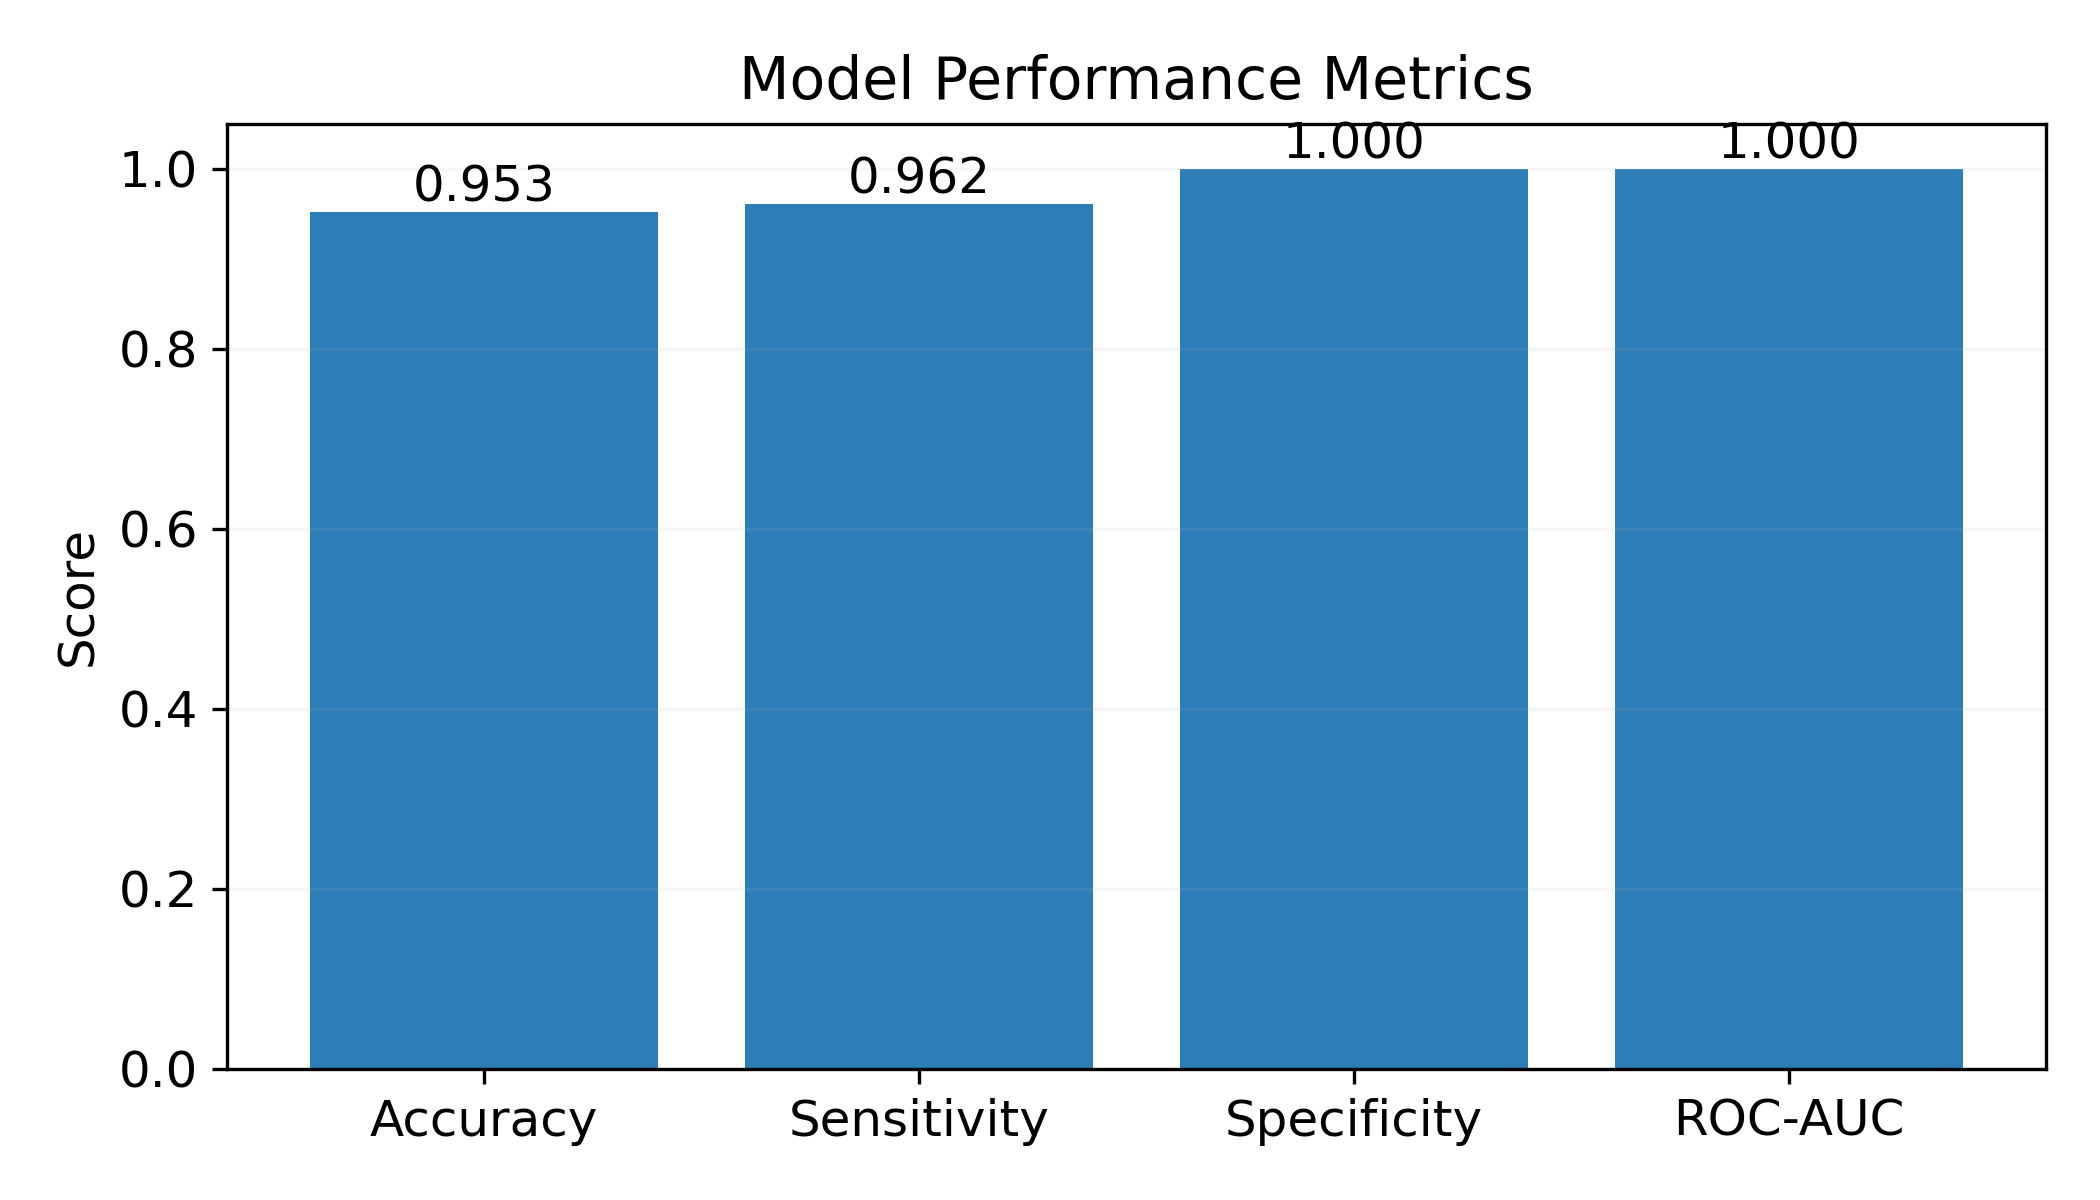
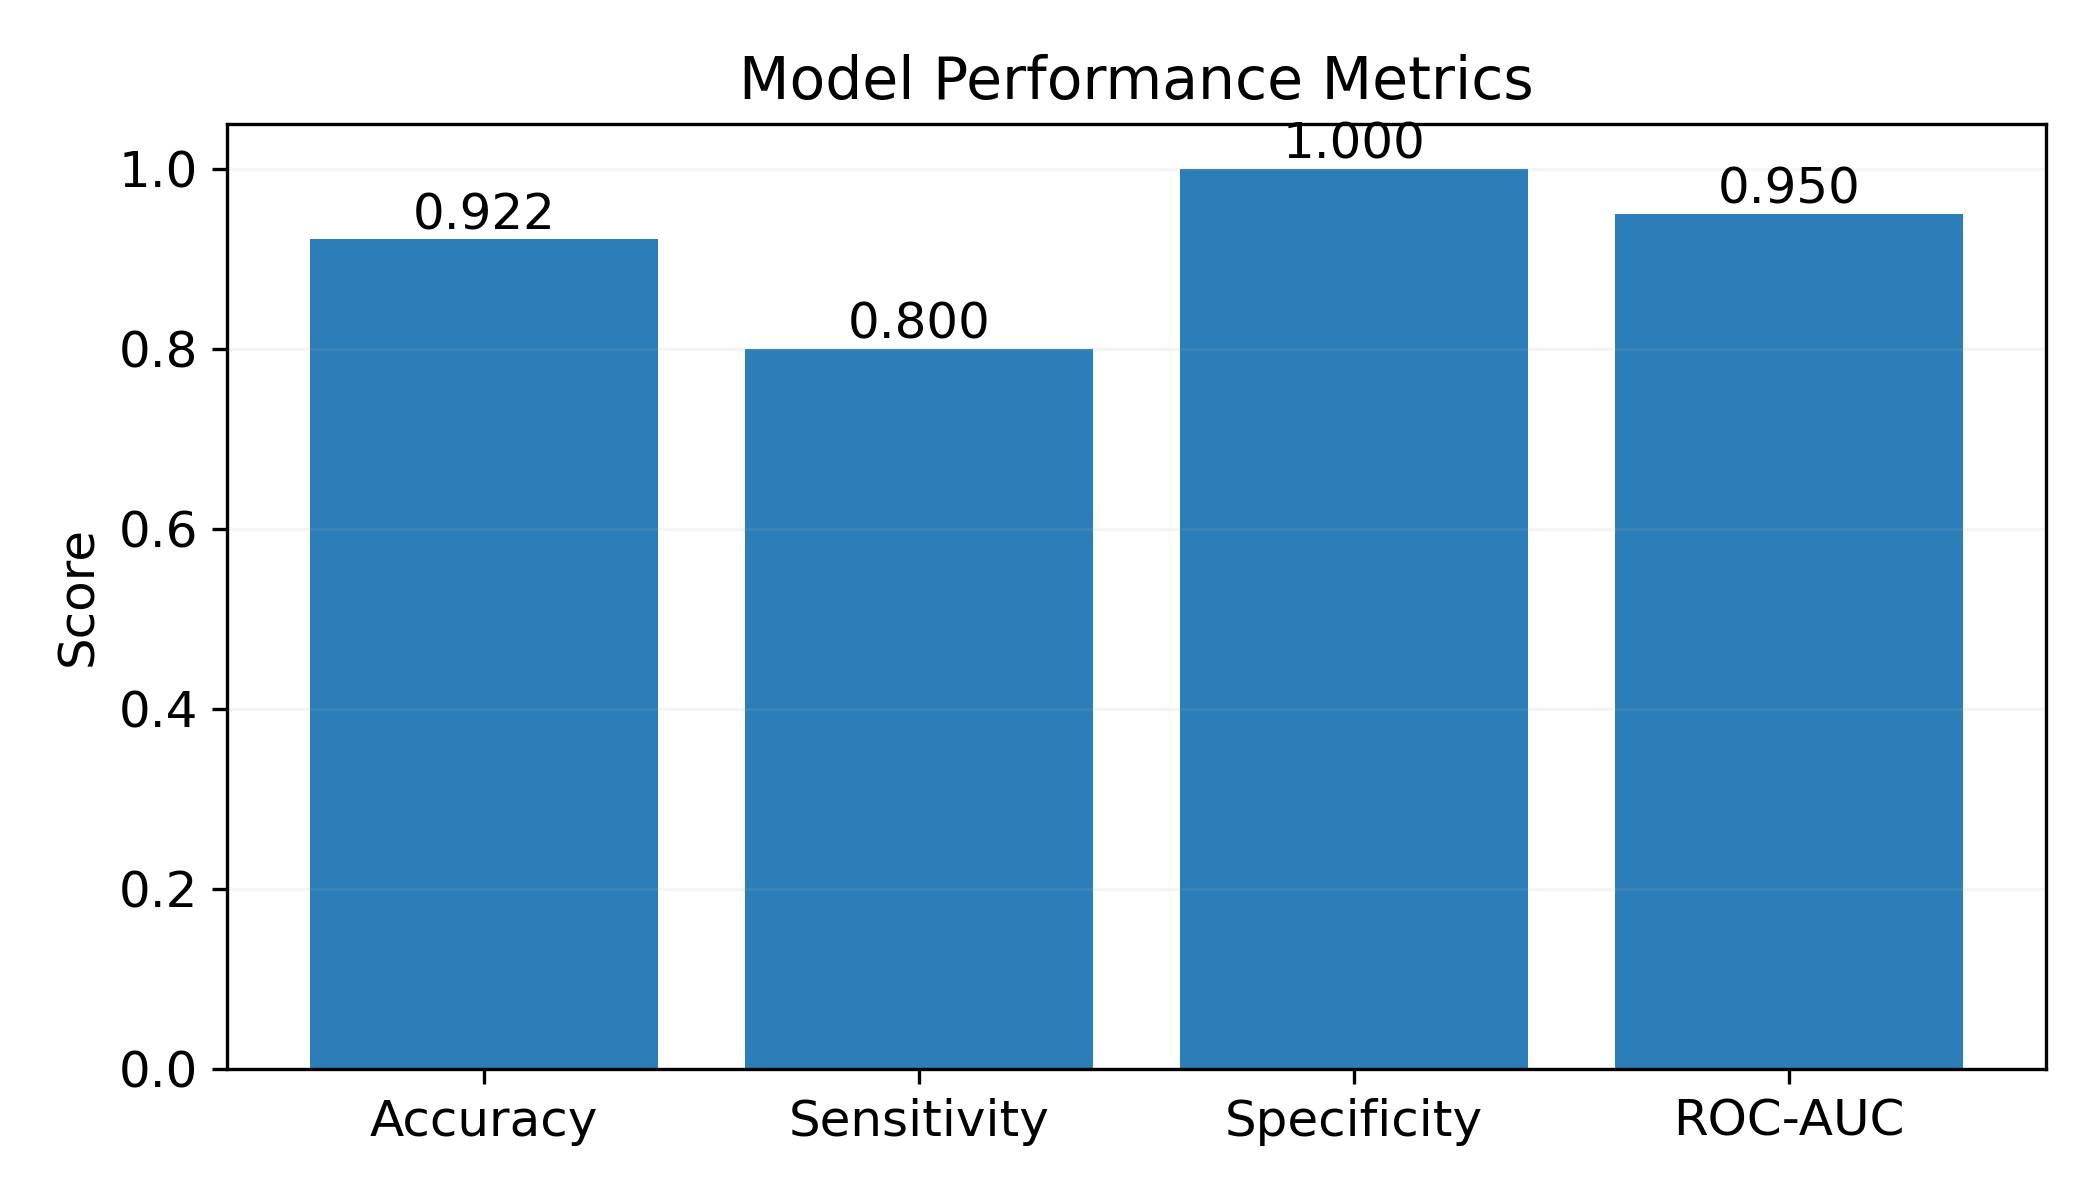
Fix: add train/test split, fix bad imports, fix print label

Changed region(s): [[0.3405, 0.1233, 0.5262, 0.3083], [0.7429, 0.0925, 0.9595, 0.185], [0.1238, 0.1233, 0.3095, 0.2158]]

diff --git a/hybrid_acogwo_leukemia.py b/hybrid_acogwo_leukemia.py
@@ -1,13 +1,11 @@
-from pyexpat import model
-from quopri import decode
+
 import numpy as np
 import pandas as pd
 
 from sklearn.preprocessing import MinMaxScaler
 from sklearn.impute import SimpleImputer
-from sklearn.model_selection import cross_val_score, StratifiedKFold
+from sklearn.model_selection import cross_val_score, StratifiedKFold, train_test_split
 from sklearn.svm import SVC
-from sklearn.ensemble import RandomForestClassifier
 from sklearn.metrics import accuracy_score
 from sklearn.metrics import confusion_matrix, roc_auc_score
 
@@ -142,7 +140,9 @@ class GWOOptimizer:
 
         best = wolves[np.argmax(scores)]
         return decode(best)
-PROJECT_SIGNATURE = "HS_ACOGWO_LEUKEMIA_V1"
+    
+
+PROJECT_SIGNATURE = "Hemanth_ACOGWO_LEUKEMIA_V1"
 
 
 def hybrid_acogwo_pipeline(X, y):
@@ -160,33 +160,34 @@ def hybrid_acogwo_pipeline(X, y):
     gwo = GWOOptimizer()
     best_C, best_gamma = gwo.optimize(X_selected, y)
 
+    X_train, X_test, y_train, y_test = train_test_split(
+    X_selected, y, test_size=0.2, random_state=42, stratify=y)
     print("Training final classifier...")
     model = SVC(C=best_C, gamma=best_gamma, probability=True)
 
     cv = StratifiedKFold(n_splits=5, shuffle=True, random_state=42)
 
-    scores = cross_val_score(model, X_selected, y, cv=cv)
+    scores = cross_val_score(model, X_train, y_train, cv=cv)
 
-    print("10-Fold Accuracy:", scores.mean())
-    model.fit(X_selected, y)
+    print("5-Fold CV Accuracy:", round(scores.mean(), 4))
+    model.fit(X_train, y_train)
 
-    y_pred = model.predict(X_selected)
+    y_pred = model.predict(X_test)
 
     # Confusion matrix
-    tn, fp, fn, tp = confusion_matrix(y, y_pred).ravel()
+    tn, fp, fn, tp = confusion_matrix(y_test, y_pred).ravel()
 
     sensitivity = tp / (tp + fn) if (tp + fn) > 0 else 0
     specificity = tn / (tn + fp) if (tn + fp) > 0 else 0
 
     # ROC-AUC
-    y_prob = model.predict_proba(X_selected)[:, 1]
-    roc_auc = roc_auc_score(y, y_prob)
+    y_prob = model.predict_proba(X_test)[:, 1]
+    roc_auc = roc_auc_score(y_test, y_prob)
 
     print("Sensitivity:", round(sensitivity, 4))
     print("Specificity:", round(specificity, 4))
     print("ROC-AUC:", round(roc_auc, 4))
 
-    model.fit(X_selected, y)
 
 
     print("Generating research figures...")
